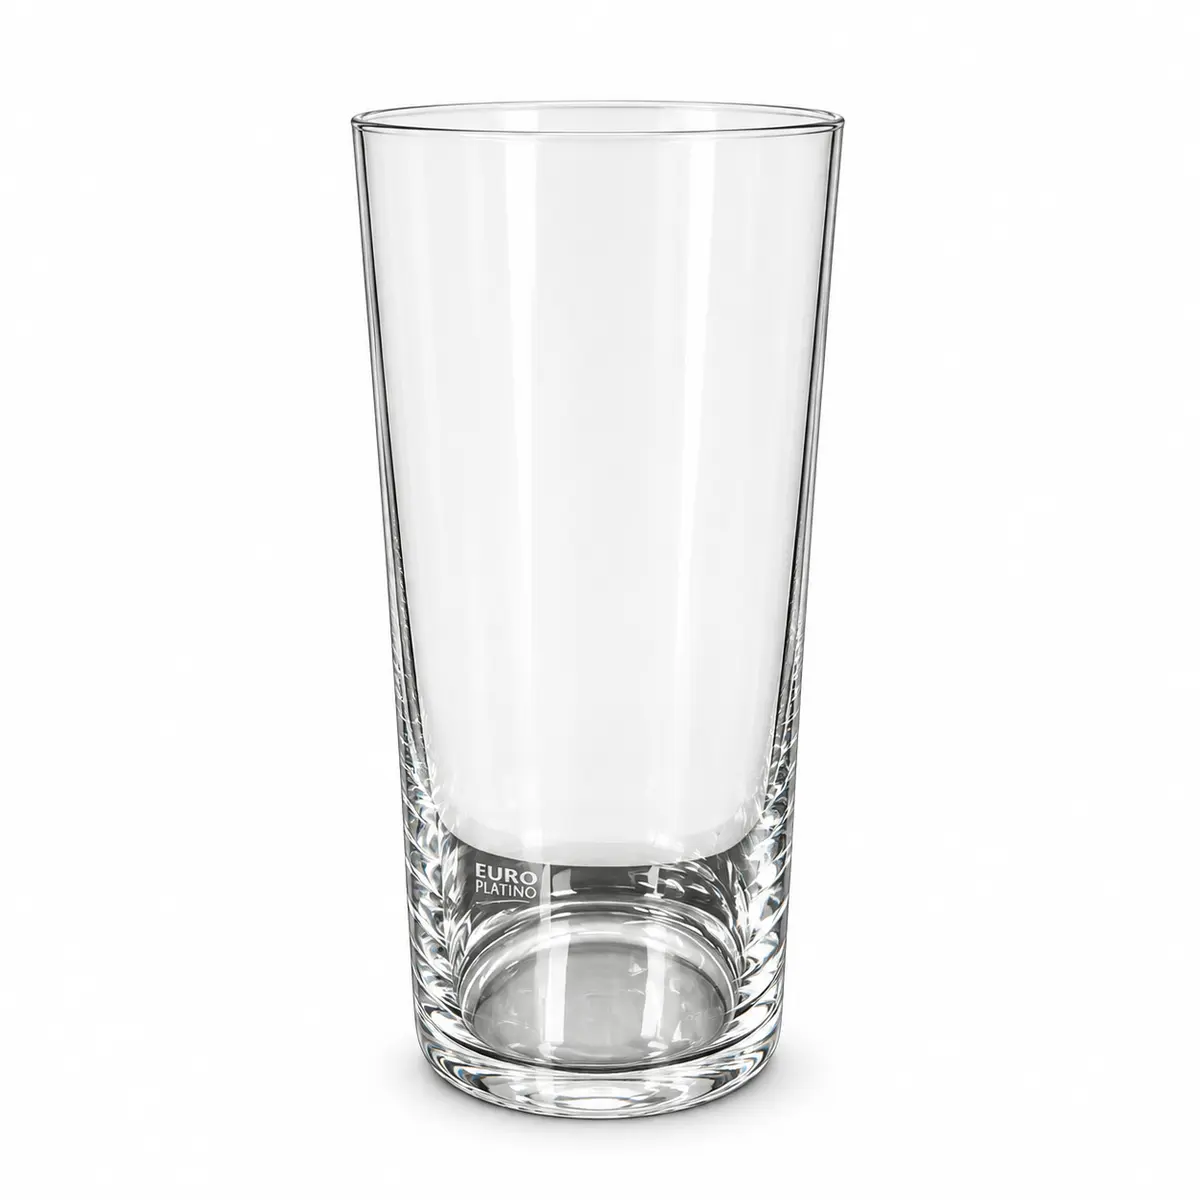
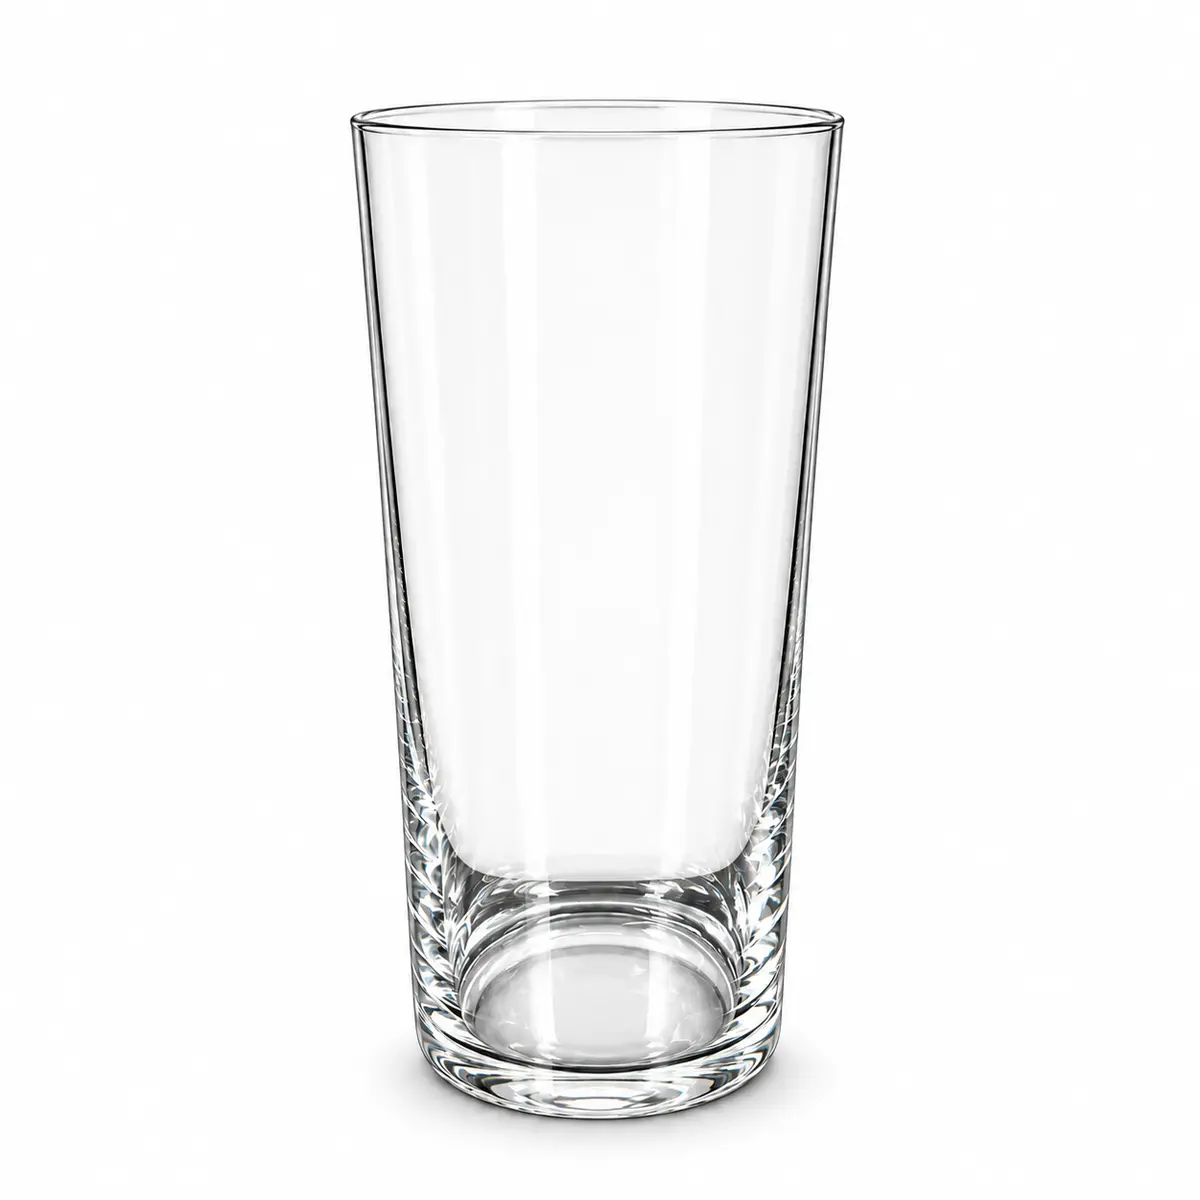
아이스 음료 잔을 투명 제품컷으로 수정

Changed region(s): [[0.3083, 0.0925, 0.7092, 0.9558], [0.2775, 0.0925, 0.3392, 0.185]]

diff --git a/netlify/edge-functions/inject-enhancements.js b/netlify/edge-functions/inject-enhancements.js
@@ -3,13 +3,13 @@ export default async function injectEnhancements(_request, context) {
   const contentType = response.headers.get('content-type') || '';
   if (!contentType.includes('text/html')) return response;
 
-  const marker = 'data-euphoria-enhancements="20261010-1"';
+  const marker = 'data-euphoria-enhancements="20261010-2"';
   let html = await response.text();
   if (html.includes(marker)) return new Response(html, response);
 
   html = html
-    .replace('</head>', `<link rel="stylesheet" href="/assets/enhancements.css?v=20261010-1" ${marker}></head>`)
-    .replace('</body>', `<script src="/assets/enhancements.js?v=20261010-1" defer ${marker}></script></body>`);
+    .replace('</head>', `<link rel="stylesheet" href="/assets/enhancements.css?v=20261010-2" ${marker}></head>`)
+    .replace('</body>', `<script src="/assets/enhancements.js?v=20261010-2" defer ${marker}></script></body>`);
 
   const headers = new Headers(response.headers);
   headers.delete('content-length');

diff --git a/assets/enhancements.js b/assets/enhancements.js
@@ -6,7 +6,7 @@
     espresso: ['/assets/cup-espresso.webp', '에스프레소 잔'],
     latteHot: ['/assets/cup-latte-hot.webp', '카페라떼 HOT 잔'],
     ice: ['/assets/glass-ice-drinks.webp', '아이스 아메리카노 크리스탈 잔'],
-    iceTall: ['/assets/glass-tall-ice-drinks.webp', '아이스 라떼·콜드브루·티 롱 글라스']
+    iceTall: ['/assets/glass-tall-ice-drinks.webp?v=20261010-2', '아이스 라떼·콜드브루·티 롱 글라스']
   };
 
   const cupMap = {
